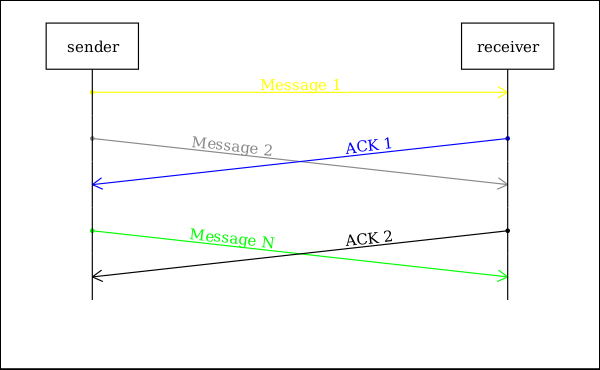
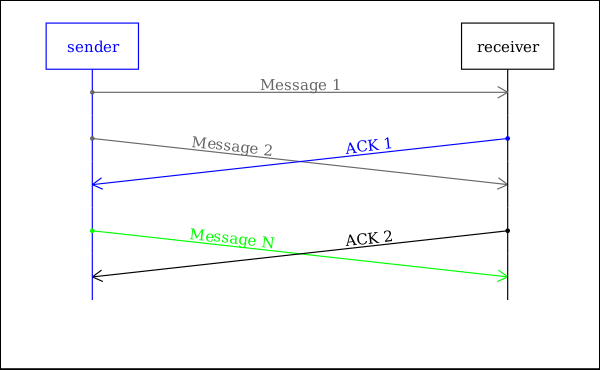
color of lifelines

Changed region(s): [[0.06, 0.0595, 0.84, 0.8027], [0.33, 0.3865, 0.42, 0.4162]]

diff --git a/meseq.py b/meseq.py
@@ -43,7 +43,8 @@ def error(*args):
     log('Error:', *args)
 
 Colors = { 'white'   : 'fff',
-           'grey'    : '888',
+           'grey'    : '666',
+           'gray'    : '666',
            'red'     : 'F00',
            'orange'  : 'fb0',
            'yellow'  : 'ff0',
@@ -427,6 +428,26 @@ class SequenceDiagram(object):
         y = 0
         for row in self.matrix.rows:
             y += STEP
+
+            # draw lifelines first, so that they appear below the others widgets
+            for i in range(len(row)):
+                x = self.getx(i)
+                node = row[i]
+
+                if node is None: continue
+
+                if node.type in [ NT_LIFELINE, NT_MSG_RECV, NT_MSG_SEND, NT_MSG_LOST, NT_CREATE, NT_BIDIRECTIONAL ]:
+                    color = node.lifelineOwner.options.getColor()
+                    self.cr.set_source_rgb(color.red(), color.green(), color.blue())
+
+                    self.lifeLine(x, y-STEP/2, y+STEP/2)
+
+                elif node.type == NT_TERMINATE:
+                    color = node.lifelineOwner.options.getColor()
+                    self.cr.set_source_rgb(color.red(), color.green(), color.blue())
+                    self.lifeLine(x, y-STEP/2, y)
+
+
             for i in range(len(row)):
                 x = self.getx(i)
                 node = row[i]
@@ -476,12 +497,6 @@ class SequenceDiagram(object):
                 else:
                     pass
 
-                if node is not None:
-                    self.cr.set_source_rgb(0, 0, 0)
-                    if node.type in [ NT_LIFELINE, NT_MSG_RECV, NT_MSG_SEND, NT_MSG_LOST, NT_CREATE, NT_BIDIRECTIONAL ]:
-                        self.lifeLine(x, y-STEP/2, y+STEP/2)
-                    elif node.type == NT_TERMINATE:
-                        self.lifeLine(x, y-STEP/2, y)
 
 
 
@@ -935,6 +950,12 @@ class SequenceGraph:
                 return True
         return False
 
+    def getActiveActor(self, actorid):
+        for a in self.activeActors:
+            if a is not None and a.actorSrc == actorid:
+                return a
+        return None
+
     def removeActor(self, actorId):
         for i in range(len(self.activeActors)):
             if self.activeActors[i] is not None:
@@ -968,6 +989,7 @@ class SequenceGraph:
             if self.activeActors[i] is not None:
                 if row[i] is None:
                     row[i] = Node(NT_LIFELINE)
+                    row[i].lifelineOwner = self.activeActors[i]
 
     def addNewRow(self):
         self.updateLifeline()
@@ -1070,6 +1092,11 @@ def computeGraph(initialActors, data):
 
     # go through the lifeline
     for nod in data:
+
+        if hasattr(nod, 'actorSrc'):
+            nod.lifelineOwner = graph.getActiveActor(nod.actorSrc)
+        else: nod.lifelineOwner = None
+
         if nod.type in [ NT_MSG_SEND, NT_MSG_LOST ]:
 
             graph.place(nod)
@@ -1078,6 +1105,8 @@ def computeGraph(initialActors, data):
             if nod.type == NT_MSG_SEND:
                 recvNode = Node(NT_MSG_RECV)
                 recvNode.actorSrc = nod.actorDest
+                recvNode.lifelineOwner = graph.getActiveActor(nod.actorDest)
+
                 if nod.options.has_key('goto'):
                     recvNode.options.add('goto', nod.options['goto'])
                 nod.arrival = recvNode
@@ -1086,6 +1115,7 @@ def computeGraph(initialActors, data):
         elif nod.type == NT_BIDIRECTIONAL:
             otherNode = Node(NT_MSG_RECV)
             otherNode.actorSrc = nod.actorDest
+            otherNode.lifelineOwner = graph.getActiveActor(nod.actorDest)
             nod.arrival = otherNode
             graph.place2(nod, otherNode)
 
